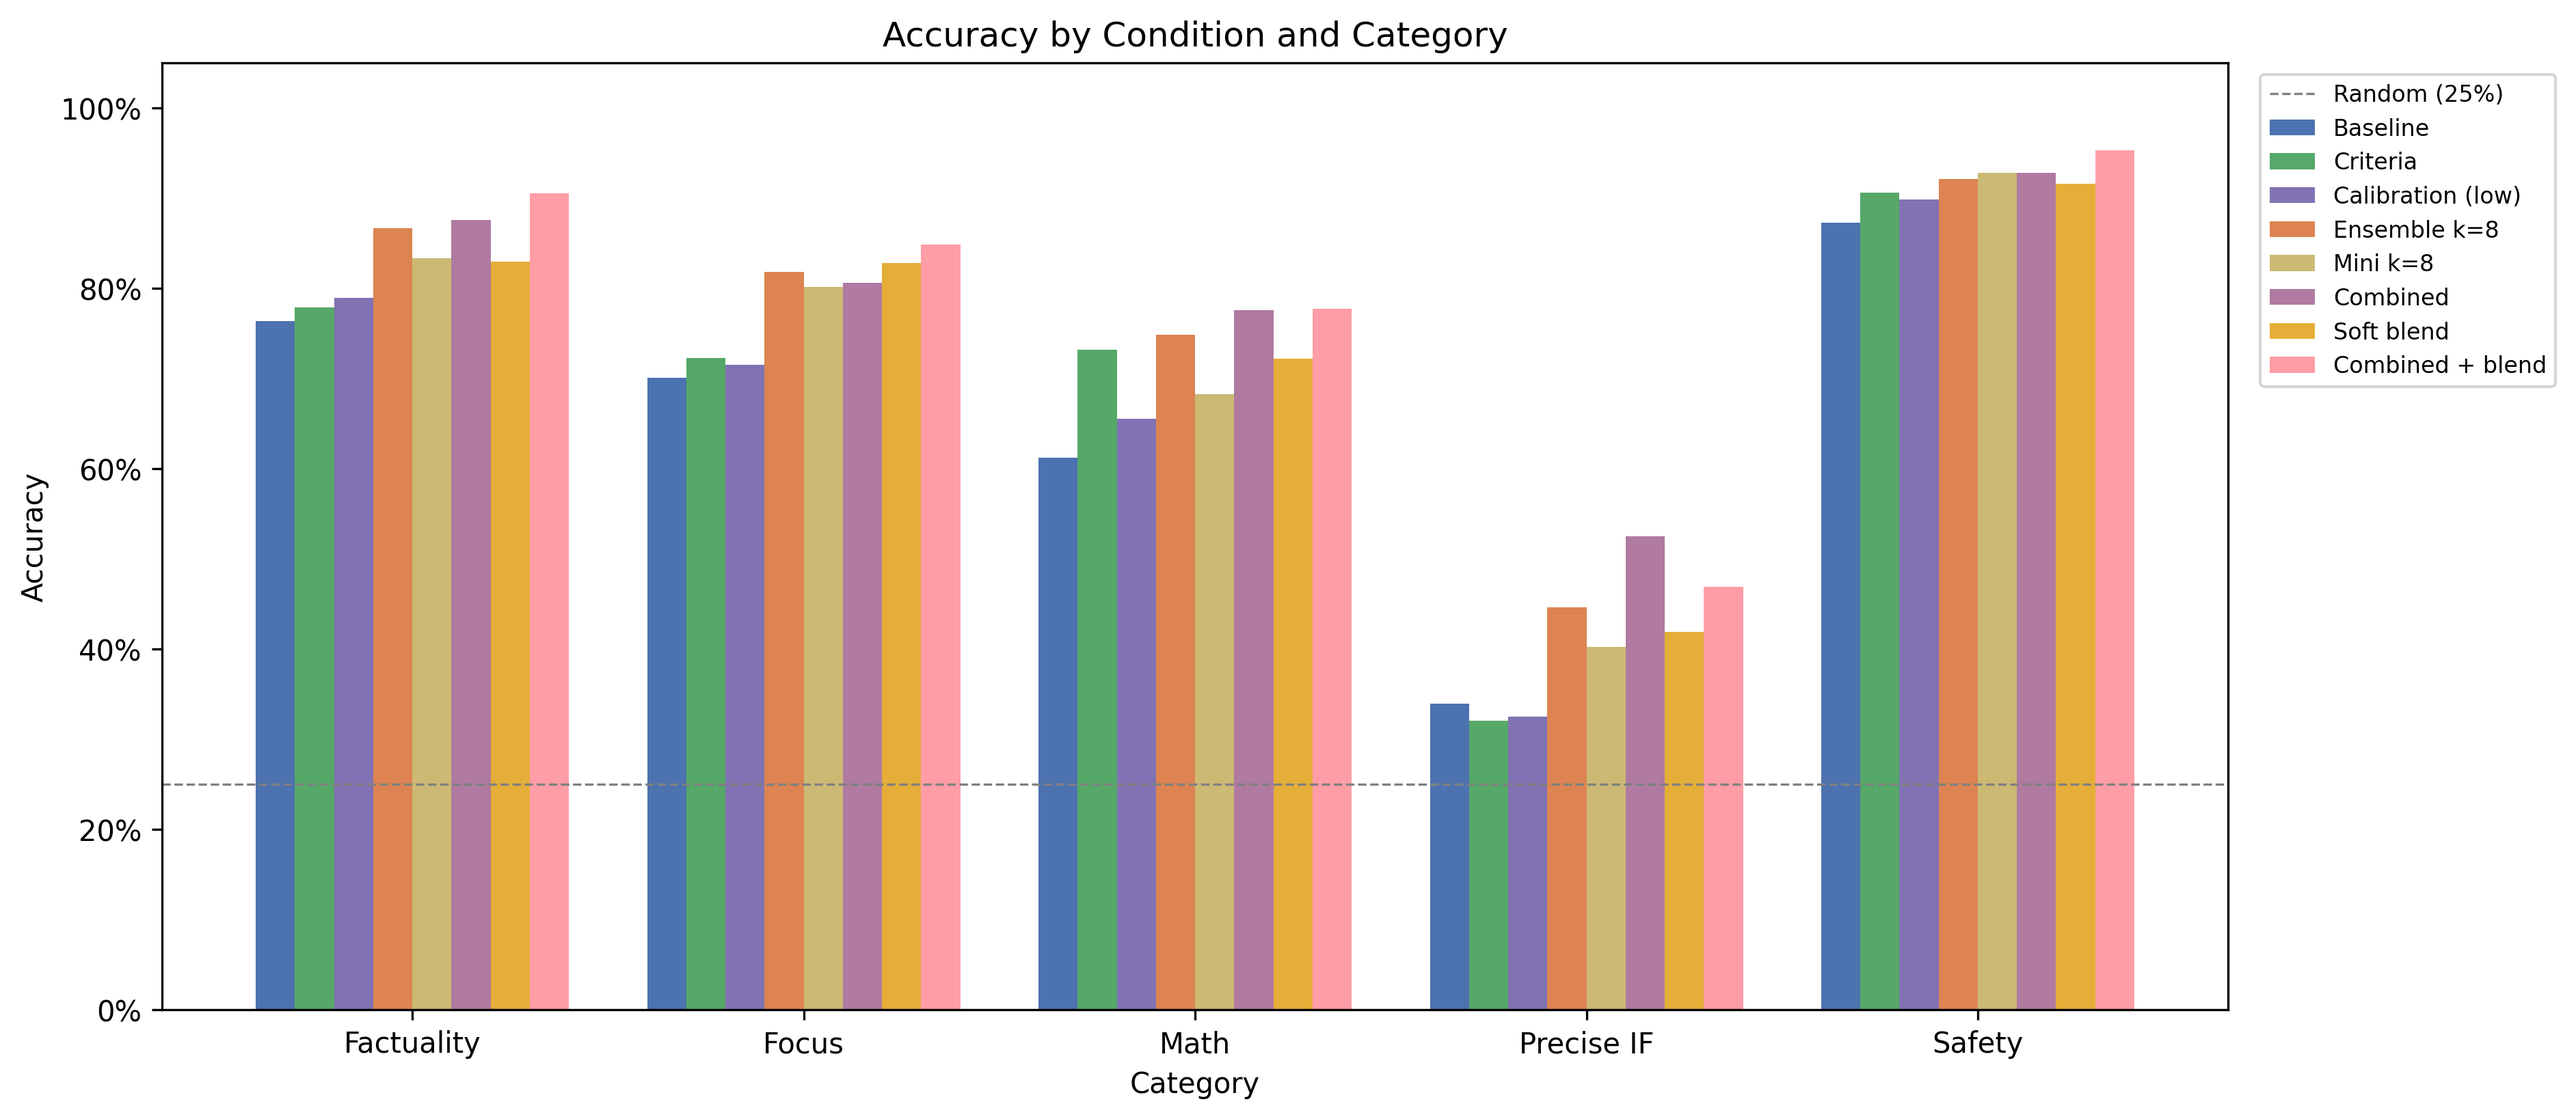
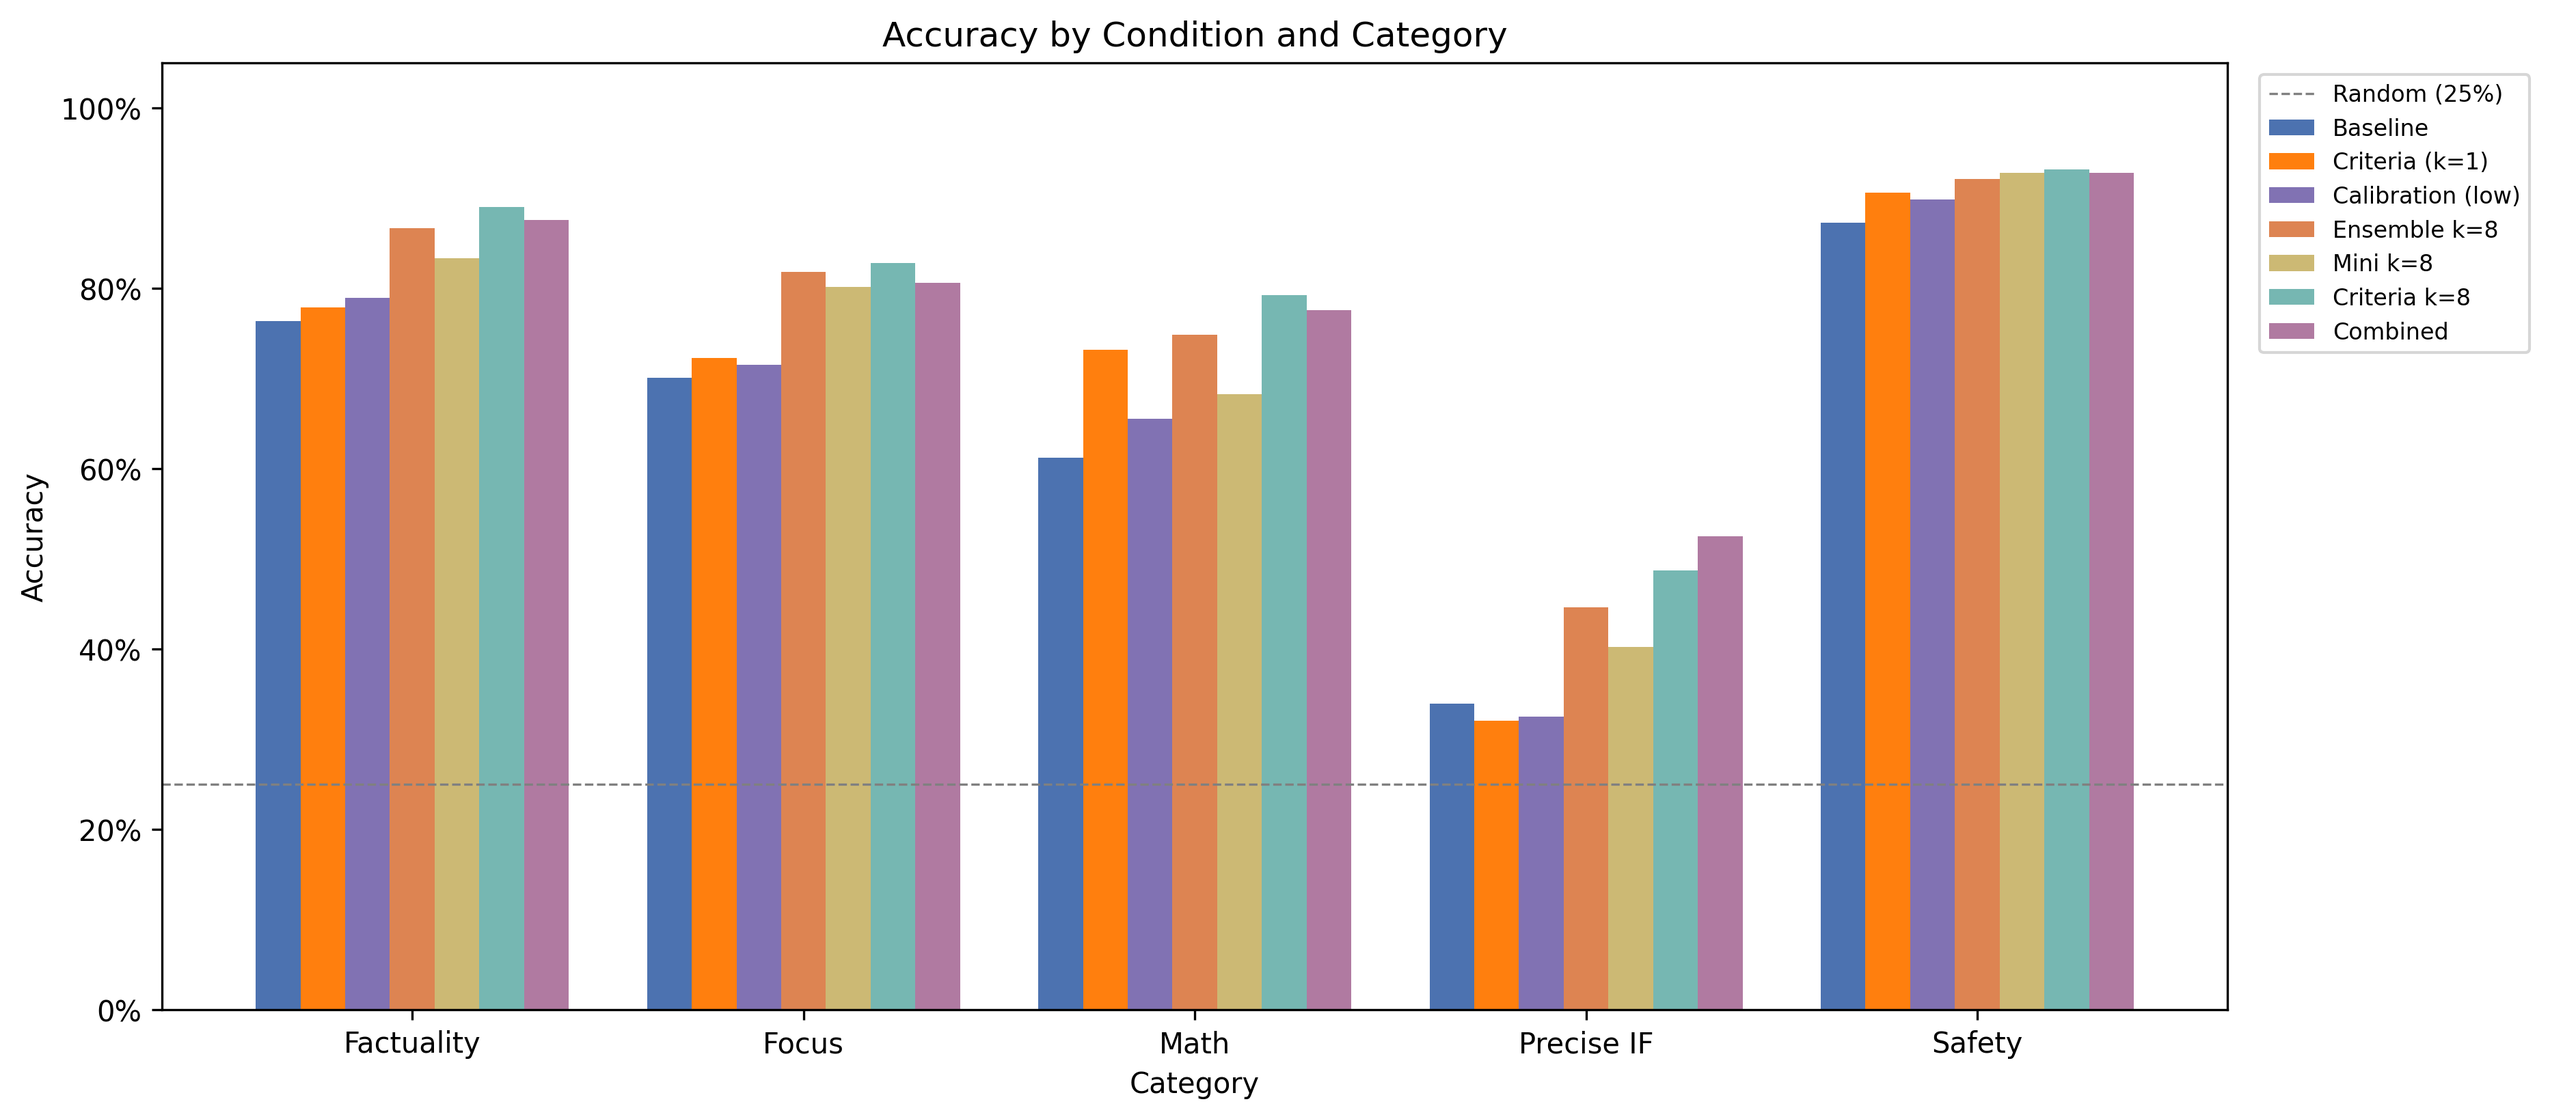
Fix figures and stale report text
Hero accuracy and Pareto frontier now include Criteria k=8 (83.6%),
the most cost-effective high-accuracy condition. Removed test-set
conditions from these plots to avoid mixing evaluation protocols.

Fix stale numbers throughout:
- Variance correlation r=0.272 → 0.411 (text and figure caption)
- Temperature sweep: correctly note ensembling helps at ALL temps
  (+4.6pp at temp=0, +9.8pp at temp=1.0), not just temp>0
- Soft blending caption: accurately describes monotonic curve shape
  and notes in-sample vs test-set discrepancy
- Bias-variance section: note test-set caveat on blend advantage

diff --git a/analysis/figures.py b/analysis/figures.py
@@ -39,6 +39,7 @@ COLORS = {
     "Mini k=8": "#CCB974",
     "Soft blend": "#E5AE38",
     "Combined": "#B07AA1",
+    "Criteria k=8": "#76B7B2",
     "Combined + blend": "#FF9DA7",
 }
 
@@ -74,17 +75,16 @@ def _find_collection(prefix: str) -> list[dict] | None:
 def plot_hero_accuracy(metrics):
     # Build {condition_name: {subset: accuracy}} from metrics
     conditions = {}
+    # Only full-dataset conditions (no test-set to avoid mixing evaluation protocols)
     display_order = [
         ("baseline", "Baseline"),
-        ("criteria", "Criteria"),
+        ("criteria", "Criteria (k=1)"),
         ("cal_low", "Calibration (low)"),
         ("ensemble_k8", "Ensemble k=8"),
         ("mini_k8", "Mini k=8"),
+        ("criteria_k8", "Criteria k=8"),
         ("combined", "Combined"),
     ]
-    # Add blend if available (use test accuracy)
-    blend = metrics.get("blend_optimised")
-    combined_blend = metrics.get("combined_blend")
 
     for key, label in display_order:
         m = metrics.get(key)
@@ -93,15 +93,6 @@ def plot_hero_accuracy(metrics):
                 sub: d["accuracy"]
                 for sub, d in m["accuracy"]["by_subset"].items()
             }
-
-    if blend and "test_by_subset" in blend:
-        conditions["Soft blend"] = {
-            sub: d["accuracy"] for sub, d in blend["test_by_subset"].items()
-        }
-    if combined_blend and "test_by_subset" in combined_blend:
-        conditions["Combined + blend"] = {
-            sub: d["accuracy"] for sub, d in combined_blend["test_by_subset"].items()
-        }
 
     if not conditions:
         print("  Skipping hero figure: no data")
@@ -139,29 +130,15 @@ def plot_hero_accuracy(metrics):
 def plot_pareto_frontier(metrics):
     points = []  # (cost_per_ex, accuracy, label)
 
-    for key, label in [("baseline", "Baseline"), ("criteria", "Criteria"),
+    # Only full-dataset conditions (no test-set numbers to avoid mixing protocols)
+    for key, label in [("baseline", "Baseline"), ("criteria", "Criteria (k=1)"),
+                       ("criteria_k8", "Criteria k=8"),
                        ("ensemble_k8", "Ensemble k=8"), ("mini_k8", "Mini k=8"),
-                       ("cal_low", "Calibration (low)"), ("cal_high", "Calibration (high)"),
+                       ("cal_low", "Calibration (low)"),
                        ("combined", "Combined")]:
         m = metrics.get(key)
         if m and "accuracy" in m and "cost" in m:
             points.append((m["cost"]["cost_per_example"], m["accuracy"]["overall"], label))
-
-    blend = metrics.get("blend_optimised")
-    if blend:
-        # Blend has same cost as running both models
-        base_m = metrics.get("baseline")
-        if base_m:
-            # Approximate: both models cost
-            both_cost = base_m["cost"]["cost_per_example"] * 5.4  # ~5.4x baseline
-            points.append((both_cost, blend["test_accuracy"], "Soft blend"))
-
-    combined_blend = metrics.get("combined_blend")
-    if combined_blend:
-        comb_m = metrics.get("combined")
-        if comb_m:
-            points.append((comb_m["cost"]["cost_per_example"], combined_blend["test_accuracy"],
-                          "Combined + blend"))
 
     if not points:
         print("  Skipping Pareto: no data")

diff --git a/TECHNICAL_REPORT.md b/TECHNICAL_REPORT.md
@@ -60,7 +60,7 @@ When running both a mini and a full model (Sections 3.5–3.6), we write $\bar{s
 
 All experiments use temperature 1.0, `reasoning_effort="none"`, and a maximum of 4,096 output tokens per completion.
 
-**Temperature.** We use temperature 1.0 to enable score diversity across ensemble calls. A temperature sweep (Section 5.5) confirms that temperature does not significantly affect k=1 baseline accuracy but is necessary for ensemble diversity — at temperature 0, all k completions are near-identical and ensembling provides no benefit.
+**Temperature.** We use temperature 1.0 to maximise score diversity across ensemble calls. A temperature sweep (Section 5.5) confirms that temperature does not significantly affect k=1 baseline accuracy. Ensembling helps at all temperatures, but the gain increases with temperature (from +4.6pp at temp=0 to +9.8pp at temp=1.0).
 
 **Reasoning effort.** We set `reasoning_effort="none"` for all conditions to isolate prompt-level and aggregation effects. This parameter is held constant across all conditions, so it does not bias comparisons. Note that enabling reasoning may improve absolute accuracy for all conditions; we leave this ablation to future work.
 
@@ -238,14 +238,14 @@ We test four variants:
 
 **Variance as an error signal.** Each response's score variance $\sigma_i = \text{std}(s_{i,1}, \ldots, s_{i,k})$ (as defined in Section 2.2) serves as the routing signal. Since each judge call is independent, all escalation strategies operate at the per-response level — each response's own variance determines how it is scored, rather than averaging variance across the four responses.
 
-Pearson correlation between per-response variance and correctness (binary) is $r = -0.15$: high variance responses are more likely to be judged incorrectly. Mini and full model variances are positively correlated ($r = 0.272$), validating mini variance as a proxy for full model uncertainty.
+Pearson correlation between per-response variance and correctness (binary) is $r = -0.13$: high variance responses are slightly more likely to be judged incorrectly. Mini and full model variances are positively correlated ($r = 0.411$), validating mini variance as a proxy for full model uncertainty.
 
 ![Variance Error Signal](figures/variance_error_signal.png)
 *Figure 2: Distribution of ensemble score variance for correct vs incorrect judgments. Incorrect judgments exhibit higher variance, validating variance as an error signal.*
 
 
 ![Variance Correlation](figures/variance_correlation.png)
-*Figure 3: Mini model score variance vs full model score variance (chosen response). Pearson r = 0.272. Mini variance is a useful but imperfect proxy for full model uncertainty. The grid structure arises because scores are integers (1–10), so variance over k=8 draws can only take a discrete set of values.*
+*Figure 3: Mini model score variance vs full model score variance (chosen response). Pearson r = 0.411. Mini variance is a useful but imperfect proxy for full model uncertainty. The grid structure arises because scores are integers (1–10), so variance over k=8 draws can only take a discrete set of values.*
 
 
 We evaluate four escalation strategies offline on the collected data.
@@ -278,7 +278,7 @@ where $j \in \{1, \ldots, k\}$ indexes the independent calls. As $k \to \infty$,
 
 $$\text{Var}((1-w)\bar{s}_i^{\text{mini}} + w\bar{s}_i^{\text{full}}) = (1-w)^2\sigma_{\text{mini}}^2 + w^2\sigma_{\text{full}}^2 + 2w(1-w)\rho\,\sigma_{\text{mini}}\sigma_{\text{full}}$$
 
-When $\rho < 1$, there exists a $w^*$ where this is strictly less than both $\sigma_{\text{mini}}^2$ and $\sigma_{\text{full}}^2$. We confirm empirically that mini and full model score variances are imperfectly correlated ($\rho = 0.272$, Section 3.5), and hypothesise that this variance reduction translates to more reliable ranking of responses, explaining why soft blending outperforms full model k=8 in our experiments.
+When $\rho < 1$, there exists a $w^*$ where this is strictly less than both $\sigma_{\text{mini}}^2$ and $\sigma_{\text{full}}^2$. We confirm empirically that mini and full model score variances are imperfectly correlated ($\rho = 0.411$, Section 3.5), and hypothesise that this variance reduction translates to more reliable ranking of responses. On the full dataset, soft blending (83.2%) outperforms full model k=8 (81.5%), though this advantage does not hold on the test set (see Section 5.4).
 
 **Method.** Rather than hard escalation, we blend mini and full model scores continuously using a per-response sigmoid weight:
 
@@ -291,7 +291,7 @@ Each response's own variance $\sigma_i$ determines its blend weight independentl
 > **Note on cost.** Soft blending always runs all mini and full model calls, so its cost is the same as running both models ($0.0715/example, 5.4× baseline). The accuracy gain over full model k=8 comes at no additional cost beyond the mini model overhead. A natural extension would be to reduce ensemble size for both models (e.g. k=3 mini + k=3 full) and re-evaluate: given the diminishing returns observed in Section 3.2, it is plausible that much of the soft blend accuracy gain is preserved at substantially lower cost.
 
 ![Soft Blending](figures/soft_blending.png)
-*Figure 5: Per-response soft blending accuracy vs mean blend weight $w$. The optimal midpoint achieves 83.2% on the full dataset at a mean blend weight of ~0.65. Accuracy degrades on both sides: too low $w$ relies too heavily on the mini model; too high $w$ discards the useful mini signal.*
+*Figure 5: Per-response soft blending accuracy vs mean blend weight $w$ (full dataset, in-sample). Accuracy increases monotonically with $w$, peaking at 83.2% near $w = 0.91$ (mostly full model). On a held-out test set, the blend (80.2%) does not beat full model k=8 (81.5%), suggesting the in-sample gain is partly due to midpoint overfitting (see Section 5.4).*
 
 #### 3.5.3 Variance-Informed Ensembling
 
@@ -362,7 +362,7 @@ The calibration "low" variant is used as default (slightly best-performing in is
 ### 4.2 Cost–Accuracy Pareto Frontier
 
 ![Pareto Frontier](figures/pareto_frontier.png)
-*Figure 8: Cost vs accuracy Pareto frontier. Calibration variants are shown as a single representative point (best accuracy). Combined + soft blend Pareto-dominates all other points. Criteria injection lies on the Pareto frontier at near-baseline cost — the best cost-efficiency of any technique.*
+*Figure 8: Cost vs accuracy Pareto frontier (full-dataset conditions only). Criteria k=8 Pareto-dominates all other high-accuracy conditions — achieving 83.6% at 5.3× baseline cost, beating Combined (82.6% at 6.0×). Mini k=8 dominates the low-cost frontier at 0.4× baseline cost.*
 
 ---
 
@@ -414,12 +414,12 @@ On the full dataset (in-sample), soft blending (83.2%) outperforms full model k=
 
 ### 5.5 Temperature Sensitivity
 
-We sweep temperature across {0.0, 0.3, 0.7, 1.0} for the base prompt with the full model. At k=1 (single call), accuracy is relatively stable across temperatures — the judge produces similar-quality scores regardless of sampling temperature. At k=8 (ensemble), lower temperatures yield diminishing returns from ensembling because completions are near-identical: at temperature 0, all 8 completions produce the same score, making the ensemble equivalent to k=1.
+We sweep temperature across {0.0, 0.3, 0.7, 1.0} for the base prompt with the full model. At k=1, accuracy is stable across temperatures (71–73%, CIs overlapping). At k=8, ensembling helps at all temperatures, but the gain increases with temperature: from +4.6pp at temperature 0 (72.5% → 77.1%) to +9.8pp at temperature 1.0 (71.7% → 81.5%). Even at temperature 0, the 8 completions are not fully identical — the model retains enough stochasticity for ensembling to provide meaningful variance reduction.
 
-This confirms that temperature > 0 is necessary for ensemble diversity to provide accuracy gains. Our choice of temperature 1.0 maximises this diversity.
+Temperature 1.0 maximises ensemble diversity and the resulting accuracy gain, which is why we use it for all conditions. The k=1 baseline is not meaningfully affected by this choice.
 
 ![Temperature Sweep](figures/temperature_sweep.png)
-*Figure 10: Baseline accuracy vs temperature for k=1 and k=8. k=1 accuracy is stable across temperatures; k=8 accuracy degrades at low temperatures as ensemble diversity vanishes.*
+*Figure 10: Baseline accuracy vs temperature for k=1 and k=8 with 95% bootstrap CIs. k=1 accuracy is stable across temperatures. k=8 ensembling helps at all temperatures but the gain increases with temperature (from +4.6pp at temp=0 to +9.8pp at temp=1.0).*
 
 ### 5.6 Criteria + Ensembling as a Simple Strong Baseline
 
